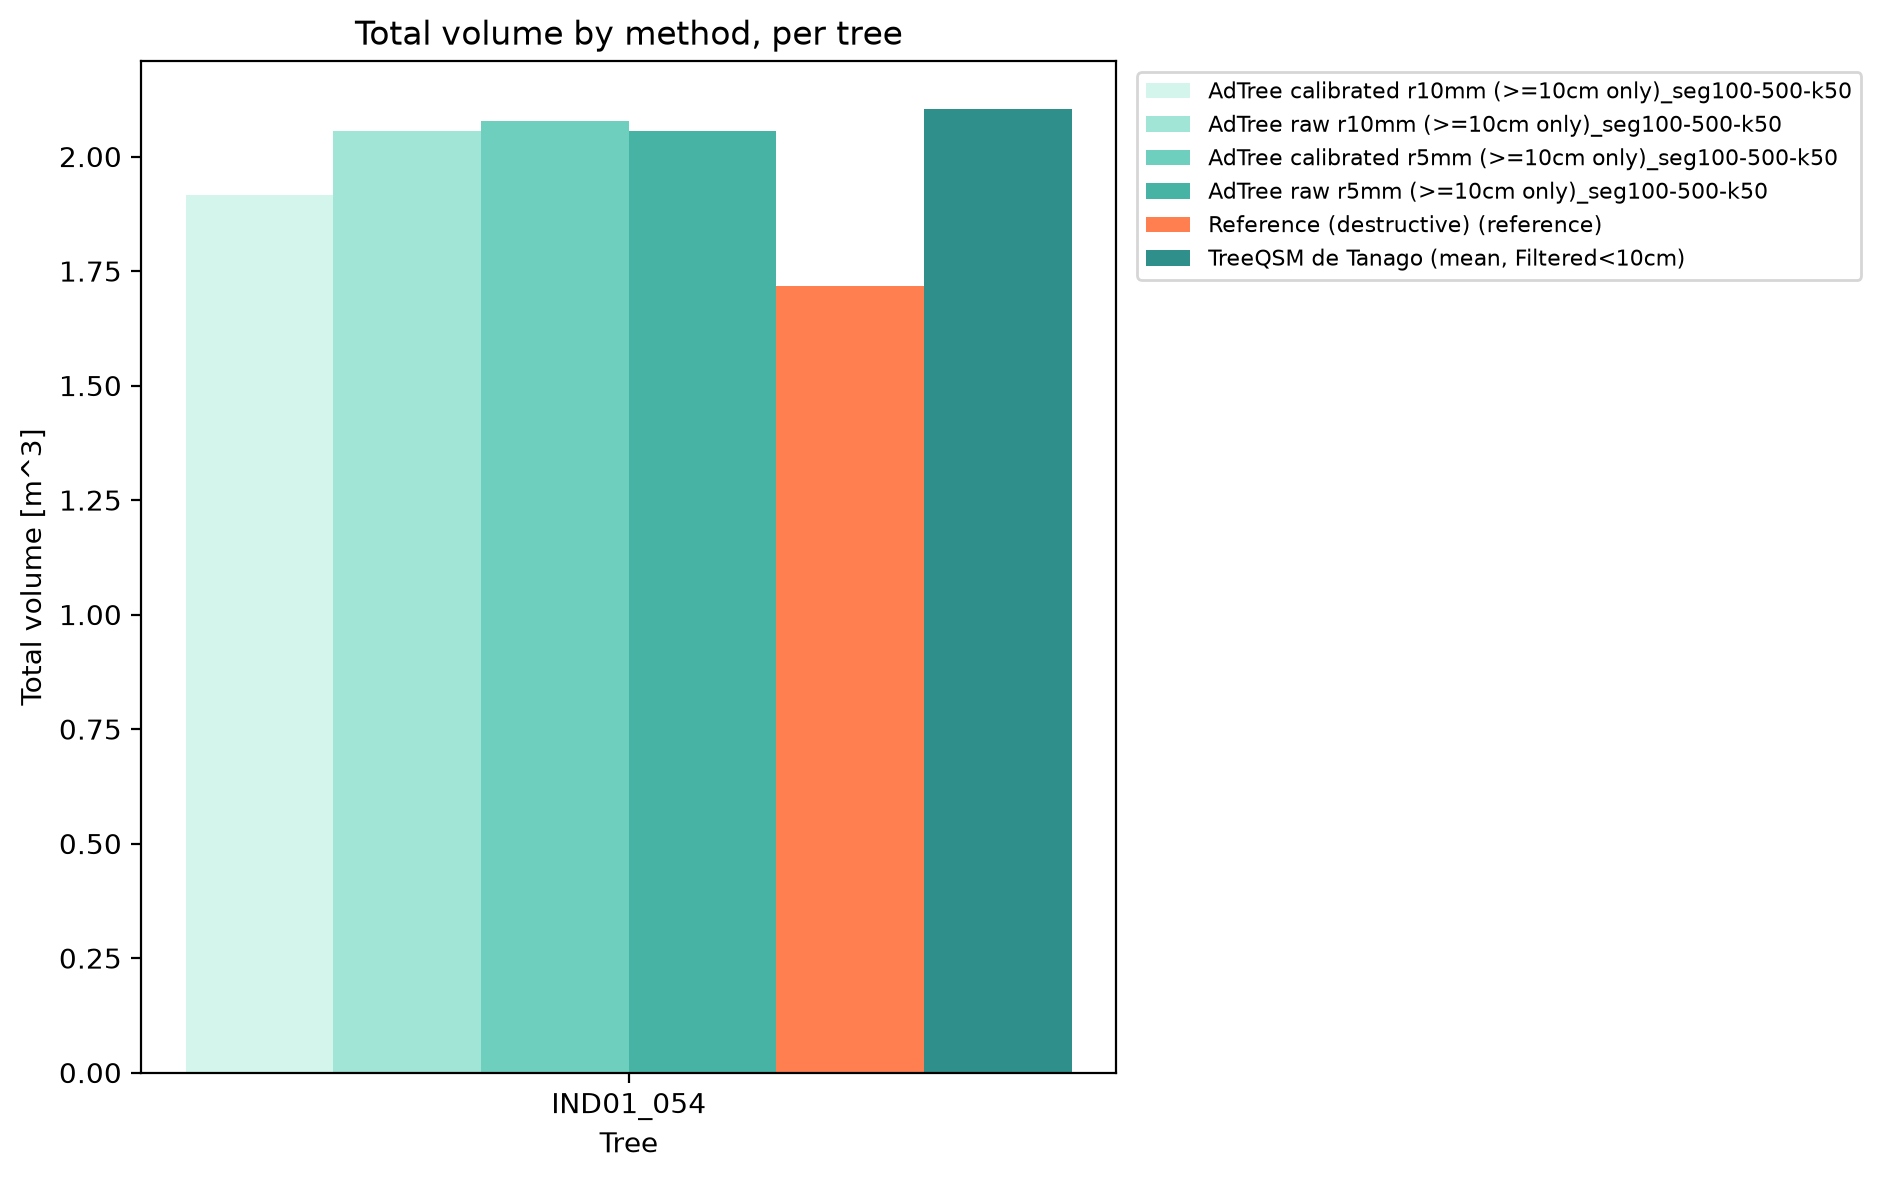
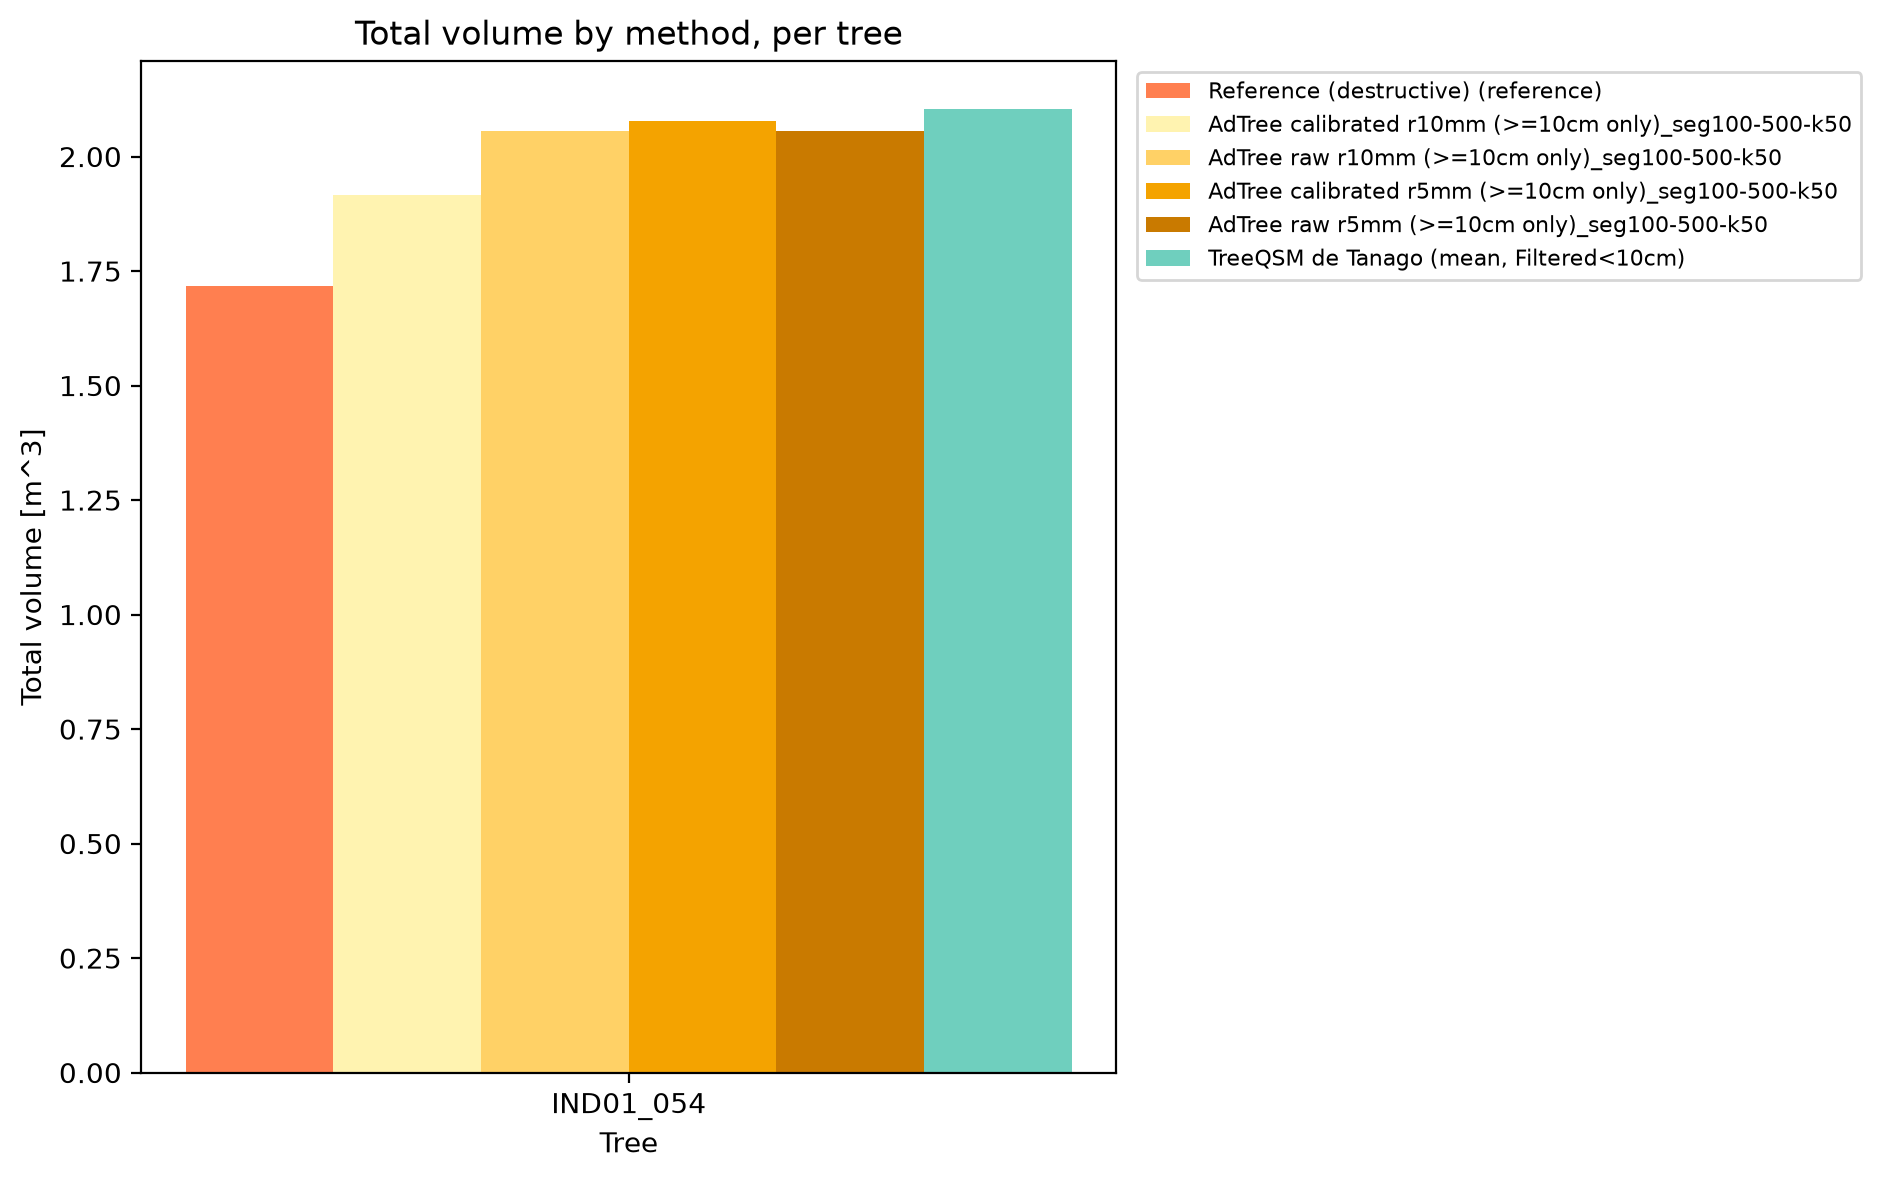
plotting and check of branches

diff --git a/scripts/python/plot_volumes.py b/scripts/python/plot_volumes.py
@@ -124,34 +124,47 @@ def save_and_report(fig, filename):
 def build_method_color_map(methods, reference_method):
     """Return a {method: color} dict for the given list of methods.
 
-    Non-reference methods are coloured with a smooth, muted MINT/TEAL
-    gradient - soft mint green through turquoise to a deeper teal (built by
-    hand from those four hex stops via LinearSegmentedColormap, rather than
-    using one of matplotlib's stock qualitative palettes) - a continuous,
-    pastel, low-saturation gradient like this stays readable even with a
-    dozen+ methods in one chart, unlike matplotlib's default bright/
-    saturated color cycle, which starts visually clashing once you have more
-    than ~5 categories. (This was previously a green -> gray -> yellow ->
-    orange gradient; replaced with this mint/teal family on request - the
-    reference highlight colour below changed too, since a "tab:blue"
-    highlight would visually blend into an all-cool mint/teal palette much
-    more than it did against the old warm-toned gradient.)
+    Non-reference methods are now split into TWO groups, each with its OWN
+    smooth gradient, instead of one shared gradient for everyone (Task 2):
+      - Methods whose name starts with "AdTree" (all AdTree rows do, by
+        construction - "AdTree raw ...", "AdTree calibrated ...") get a
+        warm YELLOW/AMBER gradient (pale yellow -> gold -> amber -> deep
+        amber). Chosen deliberately warm-but-distinct from "coral" (the
+        reference highlight below) so AdTree bars/boxes read as a clearly
+        separate family at a glance, without visually merging into the
+        reference highlight.
+      - Every other non-reference method (TreeQSM, AdQSM, etc.) keeps the
+        EXISTING muted MINT/TEAL gradient exactly as before - soft mint
+        green through turquoise to a deeper teal (built by hand from those
+        four hex stops via LinearSegmentedColormap, rather than using one
+        of matplotlib's stock qualitative palettes) - a continuous,
+        pastel, low-saturation gradient like this stays readable even with
+        a dozen+ methods in one chart, unlike matplotlib's default bright/
+        saturated color cycle, which starts visually clashing once you
+        have more than ~5 categories.
+    Each group is spread evenly across ITS OWN gradient's 0..1 range
+    independently (same `t = i/(n-1)` logic as before, just computed once
+    PER GROUP) - so adding/removing an AdTree variant never shifts the
+    TreeQSM/AdQSM colors, and vice versa.
 
     `reference_method` (the method this chart is comparing everything else
     against - REFERENCE_METHOD for the destructive-reference mode, or
     REFERENCE_METHOD_NONE for the AdQSM-as-yardstick mode) is deliberately
-    EXCLUDED from that gradient and instead gets a single fixed highlight
+    EXCLUDED from both gradients and instead gets a single fixed highlight
     colour ("coral" - a warm, high-contrast tone chosen specifically because
-    the gradient above is entirely cool-toned mint/teal, so a warm highlight
-    stands out at a glance instead of reading as "just another teal shade").
-    This guarantees the reference can never accidentally land on the same
-    shade as one of the gradient-coloured methods (which could happen with
-    the old "reference = hard-coded tab:orange, everything else =
-    matplotlib's automatic cycle" approach, since that cycle's orange could
-    still coincide with the explicit one - see the tree_overview
-    color-collision bug fixed earlier in this file's history). Excluding it
-    from the gradient also means its position never shifts the other
-    methods' shades depending on where in the method list it happens to sit.
+    the mint/teal gradient is entirely cool-toned, so a warm highlight
+    stands out at a glance instead of reading as "just another teal shade" -
+    it also stays visually distinct from the new AdTree amber gradient,
+    since amber/gold and coral are different enough hues not to be confused
+    even though both are "warm"). This guarantees the reference can never
+    accidentally land on the same shade as one of the gradient-coloured
+    methods (which could happen with the old "reference = hard-coded
+    tab:orange, everything else = matplotlib's automatic cycle" approach,
+    since that cycle's orange could still coincide with the explicit one -
+    see the tree_overview color-collision bug fixed earlier in this file's
+    history). Excluding it from the gradients also means its position never
+    shifts the other methods' shades depending on where in the method list
+    it happens to sit.
     """
     # Hand-picked, pastel mint/turquoise stops (not fully saturated) so the
     # gradient stays easy on the eye across many bars/boxes at once, while
@@ -161,20 +174,49 @@ def build_method_color_map(methods, reference_method):
         ["#d3f5ec", "#8fe0cf", "#4fbfae", "#2f8f8a"],  # light mint -> mint -> turquoise -> deep teal
     )
 
+    # Task 2: separate warm yellow/amber gradient, used ONLY for methods
+    # whose name starts with "AdTree" - keeps this "family" visually
+    # distinct from the mint/teal TreeQSM/AdQSM family in every chart.
+    adtree_gradient = mcolors.LinearSegmentedColormap.from_list(
+        "adtree_gradient",
+        ["#fff3b0", "#ffd166", "#f4a300", "#c97a00"],  # pale yellow -> gold -> amber -> deep amber
+    )
+
     non_ref_methods = [m for m in methods if m != reference_method]
-    n = len(non_ref_methods)
+    # Split into the two groups BEFORE assigning colors, so each group's
+    # `t = i/(n-1)` spread is computed over ONLY that group's own count -
+    # an AdTree method being added/removed must never shift where a
+    # TreeQSM/AdQSM method lands on the mint/teal gradient, and vice versa.
+    adtree_methods = [m for m in non_ref_methods if m.startswith("AdTree")]
+    other_methods = [m for m in non_ref_methods if not m.startswith("AdTree")]
+
     color_of = {}
-    for i, m in enumerate(non_ref_methods):
-        # Spread methods evenly across the gradient's full 0..1 range. With
-        # only one non-reference method, t=0.5 (the middle, turquoise part
-        # of the gradient) is used instead of dividing by (n - 1) = 0.
-        t = (i / (n - 1)) if n > 1 else 0.5
-        color_of[m] = gradient(t)
+    for group_methods, group_gradient in ((adtree_methods, adtree_gradient),
+                                           (other_methods, gradient)):
+        n = len(group_methods)
+        for i, m in enumerate(group_methods):
+            # Spread methods evenly across the gradient's full 0..1 range. With
+            # only one method in this group, t=0.5 (the middle of the gradient)
+            # is used instead of dividing by (n - 1) = 0.
+            t = (i / (n - 1)) if n > 1 else 0.5
+            color_of[m] = group_gradient(t)
 
     if reference_method in methods:
         color_of[reference_method] = "coral"
 
     return color_of
+
+
+def order_with_reference_first(methods, reference_method):
+    """Return `methods` with reference_method moved to the front (if
+    present), keeping the relative order of everyone else unchanged.
+    Used everywhere a method list drives x-axis/box/legend order, so
+    the reference is always the first bar/box in every chart - easier
+    to anchor on visually than wherever it happened to first appear
+    in the CSV."""
+    if reference_method in methods:
+        return [reference_method] + [m for m in methods if m != reference_method]
+    return methods
 
 
 def _darken_color(color, factor=0.6):
@@ -216,7 +258,10 @@ def plot_total_volume_by_tree(rows, color_map):
     trees = sorted({r["tree"] for r in rows})
     # dict.fromkeys() keeps the methods in the order they first appear in
     # the CSV (a plain set() would print them in a random order every run).
-    methods = list(dict.fromkeys(r["method"] for r in rows))
+    # order_with_reference_first() (Task 1) then moves REFERENCE_METHOD (the
+    # destructive reference - this chart is always "10cm" mode) to the front,
+    # so its highlighted bar is always the leftmost group member/legend entry.
+    methods = order_with_reference_first(list(dict.fromkeys(r["method"] for r in rows)), REFERENCE_METHOD)
 
     # Quick lookup: (tree, method) -> total_m3 (may be missing -> None).
     total_of = {(r["tree"], r["method"]): r["total"] for r in rows}
@@ -277,17 +322,6 @@ def plot_tree_overview(rows, tree, branch_filter, color_map):
               % (tree, branch_filter))
         return
 
-    # Methods in the order they first appear for THIS tree (dict.fromkeys()
-    # trick again, see plot_total_volume_by_tree). Keeping a stable order
-    # only matters for the legend's row order now - the actual COLOUR per
-    # method comes from `color_map` (built once in the RUN section via
-    # build_method_color_map(), shared across every chart in this file), not
-    # from an ad-hoc palette built locally here as before this change.
-    methods = list(dict.fromkeys(r["method"] for r in tree_rows))
-    # One row dict per method, for quick lookups below (assumes at most one
-    # row per (tree, method) pair, which is how upsert_result() keeps the CSV).
-    row_of = {r["method"]: r for r in tree_rows}
-
     # WHICH method is "the reference" depends on branch_filter, same as
     # everywhere else in this file: the destructive field reference
     # (REFERENCE_METHOD) only ever has "10cm" rows, so it can never be found
@@ -298,7 +332,25 @@ def plot_tree_overview(rows, tree, branch_filter, color_map):
     # annotations further down were silently never drawn for "none" mode
     # charts, even though AdQSM WAS present and perfectly usable as a
     # yardstick. Computing the right reference per-mode here fixes that.
+    # (Moved above the `methods` list below so order_with_reference_first()
+    # can use it right away - it only depends on branch_filter, not on the
+    # tree's actual rows, so computing it first is safe.)
     reference_method = REFERENCE_METHOD if branch_filter == "10cm" else REFERENCE_METHOD_NONE
+
+    # Methods in the order they first appear for THIS tree (dict.fromkeys()
+    # trick again, see plot_total_volume_by_tree), then reference_method
+    # moved to the front (Task 1) - this order drives BOTH the per-subplot
+    # bar order AND the shared legend order below, so the reference is
+    # always the first bar/legend entry in every subplot of this figure.
+    # The actual COLOUR per method still comes from `color_map` (built once
+    # in the RUN section via build_method_color_map(), shared across every
+    # chart in this file), not from an ad-hoc palette built locally here.
+    methods = order_with_reference_first(
+        list(dict.fromkeys(r["method"] for r in tree_rows)), reference_method)
+    # One row dict per method, for quick lookups below (assumes at most one
+    # row per (tree, method) pair, which is how upsert_result() keeps the CSV).
+    row_of = {r["method"]: r for r in tree_rows}
+
     ref_row = row_of.get(reference_method)   # None if this tree has no row for that reference
 
     # color_of is just an alias into the shared color_map here (rather than
@@ -349,6 +401,19 @@ def plot_tree_overview(rows, tree, branch_filter, color_map):
         # Skip methods with no value (None) for THIS field entirely, instead
         # of trying to draw a bar for them (which would crash matplotlib).
         present_methods = [m for m in methods if row_of[m][field_key] is not None]
+
+        # Task 3: trunk_len/branch_len ONLY - drop "AdTree raw" variants from
+        # THIS panel. Radius calibration only rescales/replaces cylinder
+        # RADII, it never changes cylinder length or count (see
+        # adtree_reconstruct_compare.py's comment on this same fact), so
+        # "AdTree raw ..." and "AdTree calibrated ..." always draw IDENTICAL
+        # bars here - showing both is pure visual clutter on these two
+        # panels specifically (every other panel, including volume/DBH/
+        # n_cylinders, is left completely untouched, since those genuinely
+        # DO differ between raw and calibrated).
+        if field_key in ("trunk_len", "branch_len"):
+            present_methods = [m for m in present_methods if not m.startswith("AdTree raw")]
+
         values = [row_of[m][field_key] for m in present_methods]
         colors = [color_of[m] for m in present_methods]
 
@@ -357,6 +422,15 @@ def plot_tree_overview(rows, tree, branch_filter, color_map):
         ax.set_xticks(x_positions)
         ax.set_xticklabels(present_methods, rotation=30, ha="right", fontsize=8)
         ax.set_title(subplot_title)
+
+        # Small FYI note (not the heavy AdQSM data-quality warning further
+        # below - this isn't a data-quality issue, just an explanation of why
+        # fewer bars appear here than in the other panels) explaining the
+        # omission above, so it isn't mistaken for missing/bad data.
+        if field_key in ("trunk_len", "branch_len"):
+            ax.text(0.98, 0.98,
+                    "AdTree raw omitted - identical to calibrated\n(calibration only rescales radius)",
+                    ha="right", va="top", fontsize=6, color="#666666", transform=ax.transAxes)
 
         if not present_methods:
             # Nothing to plot for this field at all (e.g. no method has a
@@ -450,7 +524,14 @@ def plot_error_boxplot(rows, branch_filter, reference_method, color_map):
     rows = filter_by_branch_filter(rows, branch_filter)
 
     trees = sorted({r["tree"] for r in rows})
-    methods = [m for m in dict.fromkeys(r["method"] for r in rows) if m != reference_method]
+    # reference_method is already excluded here (this chart never draws a
+    # box for it, only the axhline(0.0) below stands in for "perfect match
+    # with the reference"), so order_with_reference_first() (Task 1) is a
+    # no-op in practice - applied anyway for consistency with every other
+    # method-list build in this file, and in case that exclusion ever changes.
+    methods = order_with_reference_first(
+        [m for m in dict.fromkeys(r["method"] for r in rows) if m != reference_method],
+        reference_method)
     total_of = {(r["tree"], r["method"]): r["total"] for r in rows}
 
     if len(trees) < 3:
@@ -548,7 +629,11 @@ def plot_error_metrics_bar(rows, branch_filter, reference_method, color_map):
               "skipping error-metrics chart." % (reference_method, branch_filter))
         return
 
-    methods = [m["method"] for m in metrics]
+    # compute_error_metrics() already excludes reference_method from its
+    # results (same reasoning as plot_error_boxplot() above), so
+    # order_with_reference_first() (Task 1) is a no-op here too - applied
+    # anyway for consistency with every other method-list build in this file.
+    methods = order_with_reference_first([m["method"] for m in metrics], reference_method)
     bias = [m["bias"] for m in metrics]
     mae = [m["mae"] for m in metrics]
     rmse = [m["rmse"] for m in metrics]
